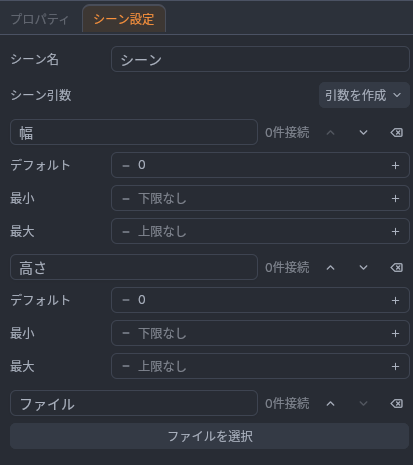
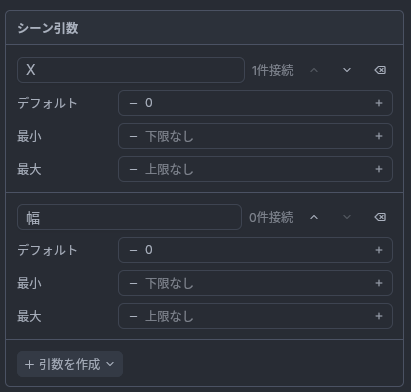
released-zerium: update content

diff --git a/articles/released-zerium.md b/articles/released-zerium.md
@@ -41,7 +41,12 @@ https://github.com/1Step621/zerium
 ![シーン設定](/images/articles/released-zerium/scene-settings.png)
 ![引数へのリンク](/images/articles/released-zerium/link-argument.png)
 
-この仕組みを流用してパーティクルごとに異なるエフェクトをかけられるようなシステムを作ったり、複雑な計算を含むアイテムを作ったりできないかなと思っています(未実装)。
+さらに、計算処理を挟むこともできます。
+
+![引数の計算](/images/articles/released-zerium/calculation.png)
+![引数の計算結果](/images/articles/released-zerium/calculation-result.gif)
+
+また、この仕組みを流用してパーティクルごとに異なるエフェクトをかけられるようなシステムを作るなど、プログラミングで言う高階関数チックなこともできないかなと考えています(未実装)。
 
 ## 技術選定
 
